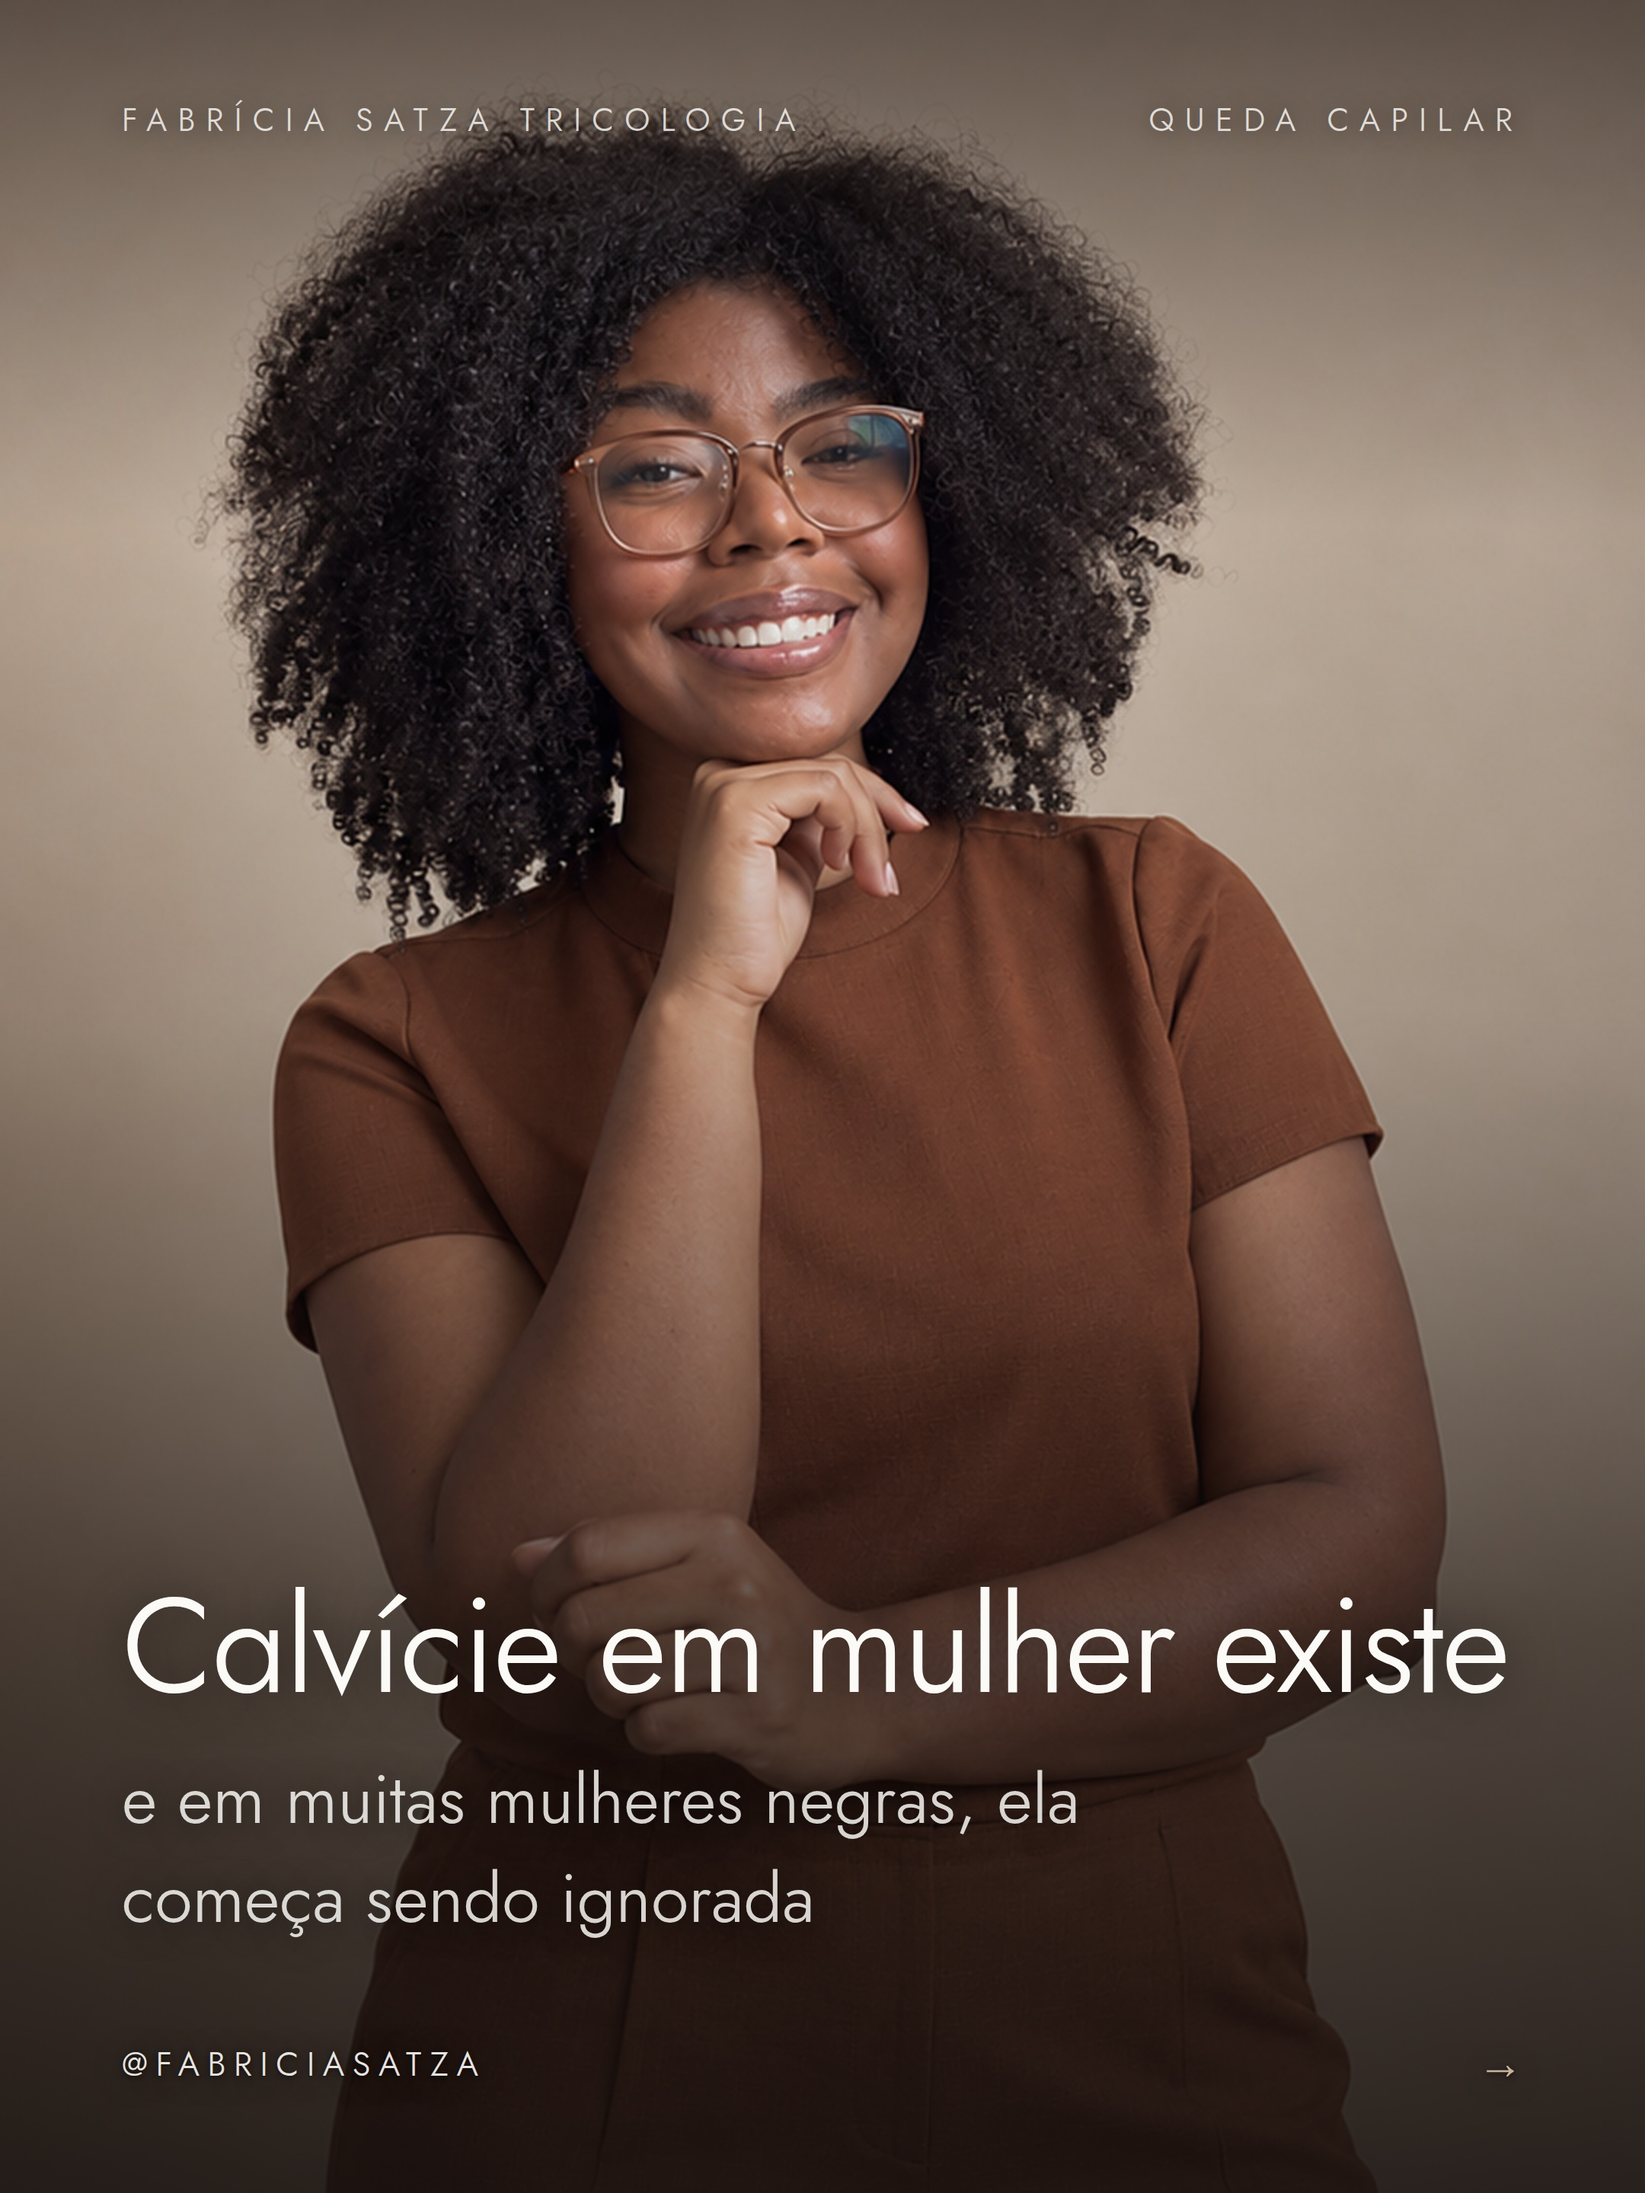
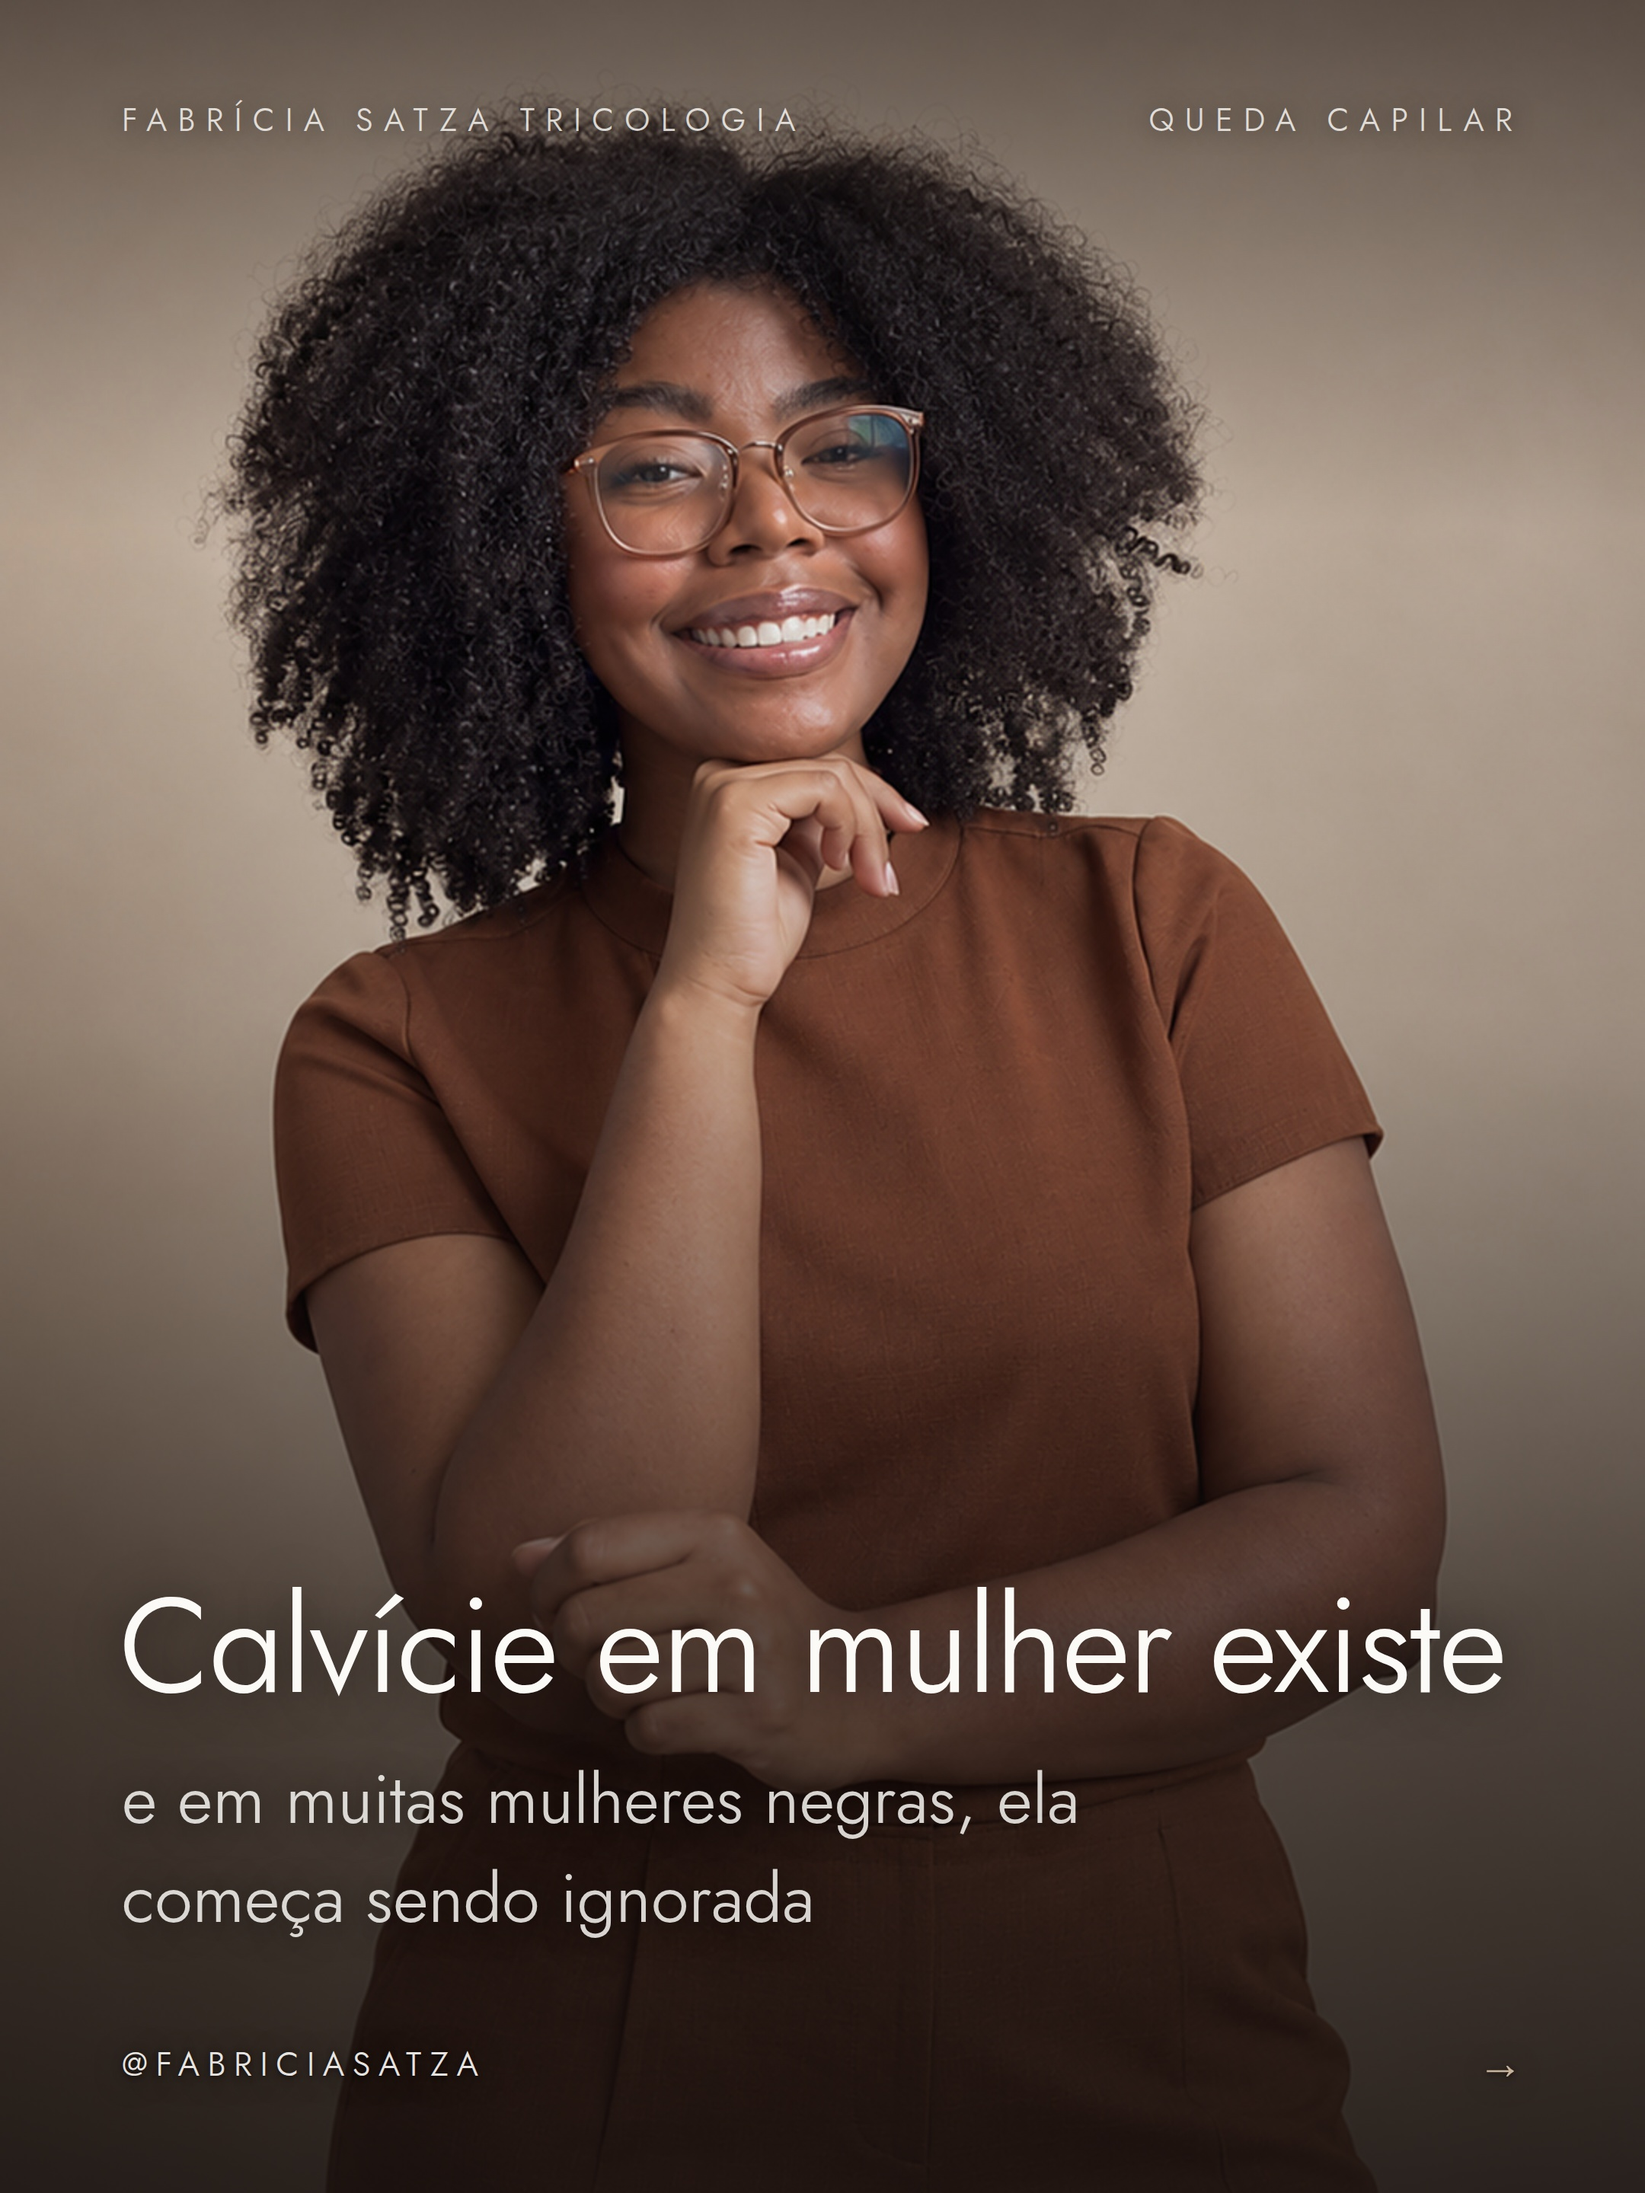
Alinha oticamente os textos da capa
Os tres blocos ficavam no mesmo padding de 80px, mas o avanco lateral do
primeiro caractere muda com o corpo: o titulo de 88px punha a tinta em
83,5px e as linhas de apoio em 81,5. Dois pixels de caixa, mas o olho lia o
titulo recuado. margin-left de -2px no display poe os quatro elementos —
cabecalho, titulo, apoio e arroba — na mesma coluna de tinta.

Entra no checklist de conferencia da skill: medir a borda da tinta, nao
confiar no padding.

Claude-Session: https://claude.ai/code/session_01DL9VyhWUWZtPxmDSzgTccC

diff --git a/carrossel-calvicie-feminina.html b/carrossel-calvicie-feminina.html
@@ -387,7 +387,7 @@ em,i,.destaque{font-style:normal;color:var(--terracota-esc)}
   <div class="veu" style="background:linear-gradient(to bottom,rgba(20,14,12,.54) 0%,rgba(20,14,12,.04) 24%,rgba(20,14,12,.16) 46%,rgba(20,14,12,.62) 74%,rgba(20,14,12,.86) 100%)"></div>
   <div class="cab" style="font-size:21px;letter-spacing:.34em;color:rgba(252,250,247,.82);text-shadow:0 1px 14px rgba(0,0,0,.55)"><span>Fabrícia Satza Tricologia</span><span>Queda capilar</span></div>
   <div class="corpo" style="gap:24px">
-    <div class="display" style="font-size:88px;color:var(--claro);text-shadow:0 2px 30px rgba(0,0,0,.55)">Calvície em mulher existe</div>
+    <div class="display" style="font-size:88px;margin-left:-2px;color:var(--claro);text-shadow:0 2px 30px rgba(0,0,0,.55)">Calvície em mulher existe</div>
     <div class="texto" style="max-width:80%;color:rgba(252,250,247,.84);text-shadow:0 2px 22px rgba(0,0,0,.6)">e em muitas mulheres negras, ela começa sendo ignorada</div>
   </div>
   <div class="rod"><span>@fabriciasatza</span><span class="segue">&#8594;</span></div>

diff --git a/.claude/skills/fabricia-satza-tricologia/SKILL.md b/.claude/skills/fabricia-satza-tricologia/SKILL.md
@@ -306,6 +306,12 @@ O que olhar:
 - Cabeçalho e rodapé cinza-escuro sobre foto (sinal de que `sobre-foto` caiu)
 - Marcador do antes/depois fora do lugar
 - `{{PLACEHOLDER}}` esquecido
+- **A borda esquerda da TINTA, não do bloco.** Todos os textos ficam no mesmo
+  `padding`, mas cada corpo tem um avanço lateral diferente: na capa da peça de
+  calvície o título de 88px punha a tinta em 83,5px enquanto as linhas de apoio
+  punham em 81,5. Dois pixels, e o título parecia recuado. Meça a coluna em que
+  a tinta começa em cada linha e iguale com `margin-left` negativo — o alinhamento
+  que vale é o que o olho vê, não o que a caixa diz.
 
 ## Tipografia — o essencial
 
